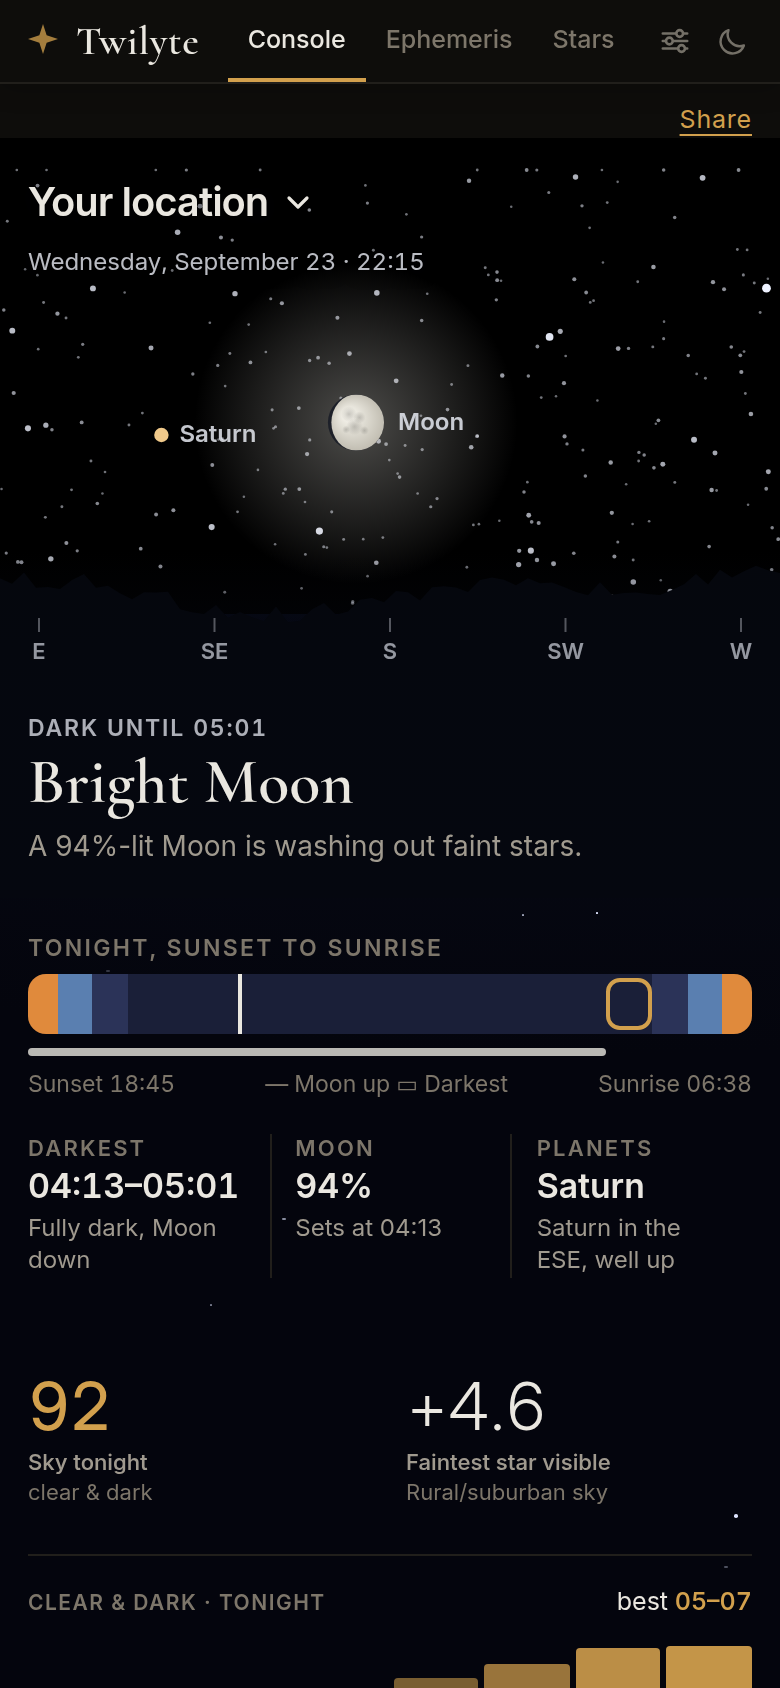
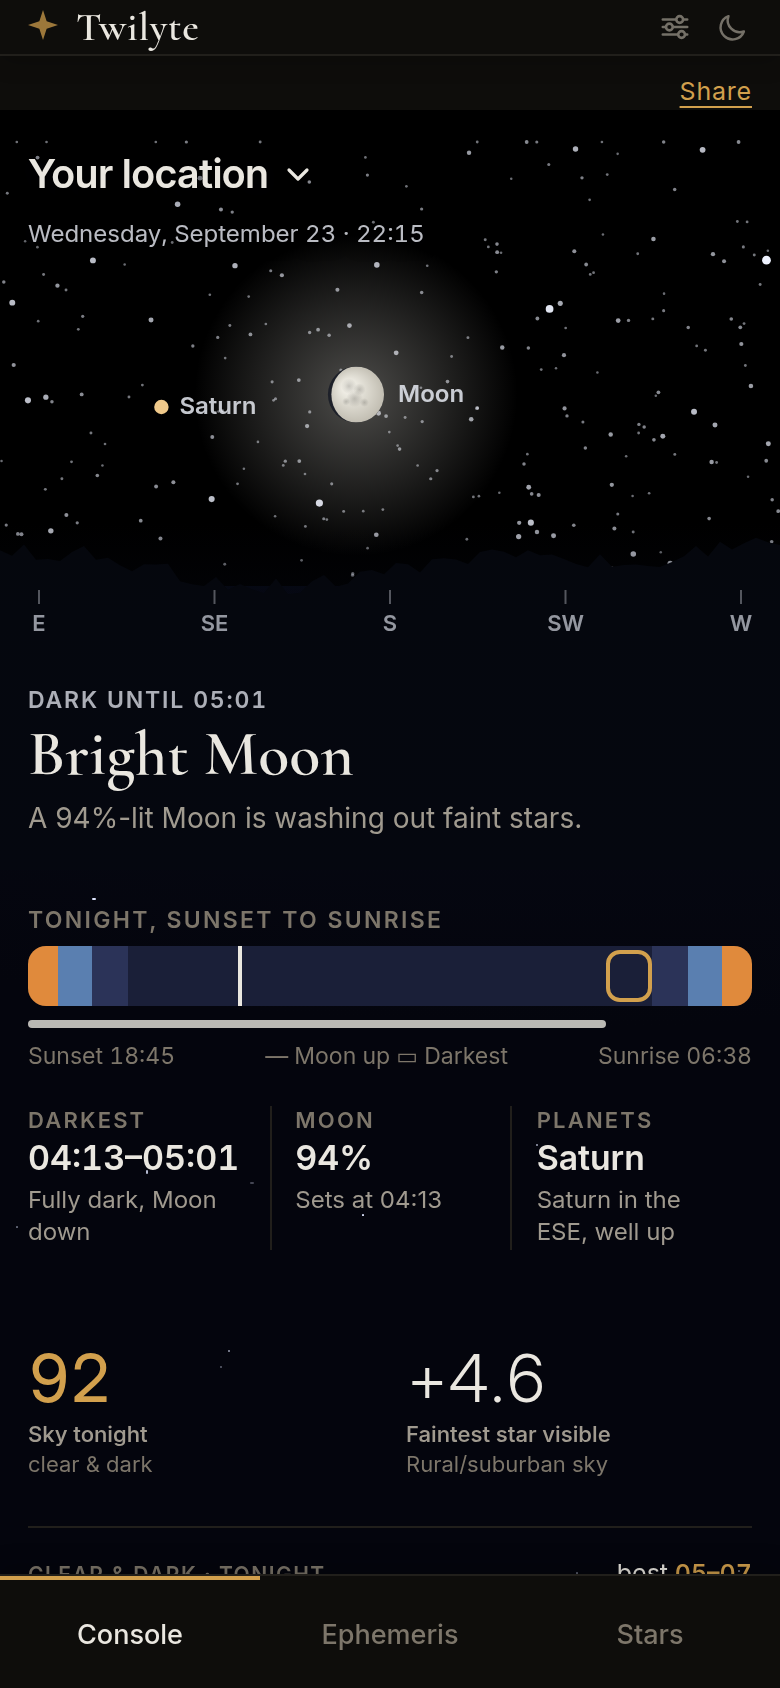
Move the tabs to a bar along the bottom on phones
On a phone the Console / Ephemeris / Stars tabs sat in the header at the top
of the screen, the hardest place for a thumb to reach, and they crowded it:
between 360 and 383 px the header overflowed, which is why the app hid its
own wordmark below 385 px.

At 780 px and narrower (the app's existing phone/tablet breakpoint) the tabs
are now a fixed bar along the bottom: three equal buttons, 56 px tall, the
active one marked with an accent line on top, the bar clear of the home
indicator via env(safe-area-inset-bottom) (the viewport is already
viewport-fit=cover). #root gets matching bottom padding so the footer is
never hidden behind the bar. Sky View's full-screen overlay (z-index 300)
still covers it.

The buttons now live in <nav class="tw-tabs" aria-label="Sections">, which is
display:contents on wide screens, so the desktop header is unchanged, and
the active tab carries aria-current="page" (it had no programmatic state
before). With the tabs gone from the phone header the wordmark fits at any
width, so the max-width:384px rule that hid it is removed.

Checked in Playwright at 360x740, 390x844 and 1280x800: no horizontal
overflow at any width, wordmark visible at 360, the bar at the bottom on the
phones and absent (tabs in the header) on desktop, aria-current follows a
switch to Stars, and the footer's last link ends above the bar. No page
errors; 210/210 tests pass; verify-build passes.

iPhone, Android phone and PWA narrow screenshots retaken (iPad and the wide
[…]

diff --git a/index.html b/index.html
@@ -2,7 +2,7 @@
 <html lang="en">
 <head>
 <meta charset="utf-8" />
-<meta http-equiv="Content-Security-Policy" content="default-src 'self'; script-src 'self' 'sha256-LtvvfGVmfcoHWp4+TD4Lt7CBdUP12N0xoz2a4TCIlgA=' 'sha256-2WFykE7wvy9rfb6MuxdEk17+inylzAieA3wTF6WO6oc=' 'sha256-5iQLZZarga65DX0f9Sd0iyRmfHgUzB8mc6W/19dA1m0=' 'sha256-tYEtE0kpLDDuqS/6ySsctSCJyRRL2qqbyqNi3qi8et4=' 'sha256-JAy4ooiqCu/2GUX/T0oycyxLZ4vrWZ1Xwxtepo5wmOg='; style-src 'self' 'unsafe-inline'; img-src 'self' data:; font-src 'self'; connect-src 'self' https://geocoding-api.open-meteo.com https://api.open-meteo.com https://twilight-counter.ken-b39.workers.dev; manifest-src 'self'; worker-src 'self'; base-uri 'self'; form-action 'self'; object-src 'none'; upgrade-insecure-requests" />
+<meta http-equiv="Content-Security-Policy" content="default-src 'self'; script-src 'self' 'sha256-LtvvfGVmfcoHWp4+TD4Lt7CBdUP12N0xoz2a4TCIlgA=' 'sha256-2WFykE7wvy9rfb6MuxdEk17+inylzAieA3wTF6WO6oc=' 'sha256-5iQLZZarga65DX0f9Sd0iyRmfHgUzB8mc6W/19dA1m0=' 'sha256-LIHm+RzdVFIS1AS4HNQ8Rvi7VSK7sO/q4Zj0YR1jL+A=' 'sha256-JAy4ooiqCu/2GUX/T0oycyxLZ4vrWZ1Xwxtepo5wmOg='; style-src 'self' 'unsafe-inline'; img-src 'self' data:; font-src 'self'; connect-src 'self' https://geocoding-api.open-meteo.com https://api.open-meteo.com https://twilight-counter.ken-b39.workers.dev; manifest-src 'self'; worker-src 'self'; base-uri 'self'; form-action 'self'; object-src 'none'; upgrade-insecure-requests" />
 <meta name="viewport" content="width=device-width, initial-scale=1, viewport-fit=cover" />
 <meta name="theme-color" content="#070a14" />
 <title>Twilyte — Live Sky Dashboard & Twilight Ephemeris</title>
@@ -93,12 +93,27 @@
     --shadow-2:0 2px 12px rgba(0,0,0,.22);
     --panel-top:rgba(255,255,255,.05);  /* hairline top highlight */
   }
-  /* Hide the wordmark on narrow screens so the tab bar never crowds.
-     384px (not 359px) because the header's natural width is 381px — a
-     360-383px viewport (this bracket covers real devices: 360px Android,
-     375px iPhone SE/6-8/X/11 Pro/12 mini) overflowed horizontally on every
-     tab otherwise. */
-  @media (max-width:384px){ .tw-brand-word{ display:none; } }
+  /* Tabs: in the header on wide screens, a bar along the bottom on phones
+     and small tablets, where the thumb is. On wide screens the <nav> is
+     display:contents, so the buttons sit in the header's flex row as they
+     always have. Moving them off the header also ended the 360-383px
+     overflow that used to hide the wordmark on narrow phones. The !important
+     rules override the buttons' inline top-tab styles. */
+  .tw-tabs{ display:contents; }
+  @media (max-width:780px){
+    .tw-tabs{
+      display:flex; position:fixed; left:0; right:0; bottom:0; z-index:100;
+      background:var(--bg); border-top:1px solid var(--line);
+      box-shadow:0 -2px 12px rgba(0,0,0,.28);
+      padding:0 env(safe-area-inset-right) env(safe-area-inset-bottom) env(safe-area-inset-left);
+    }
+    .tw-tab{
+      flex:1 1 0; min-height:56px; font-size:13.5px !important;
+      border-bottom:none !important; border-top:2px solid transparent !important;
+    }
+    .tw-tab[aria-current="page"]{ border-top-color:var(--accent) !important; }
+    #root{ padding-bottom:calc(58px + env(safe-area-inset-bottom)); }
+  }
   /* Free up room on small screens */
   @media (max-width:560px){ .tw-visitors{ display:none; } }
   /* Glassy "instrument panel" elevation: soft drop shadow + hairline top highlight */
@@ -1592,7 +1607,7 @@ const C = {
 // Bumped with sw.js's CACHE, so a Sensor details screenshot says which build
 // it came from. It sat at v56 for weeks while the app moved on, which made
 // every field report ambiguous.
-const BUILD = "v85";
+const BUILD = "v86";
 const PAGE_BG = "radial-gradient(1200px 760px at 75% -10%, #1b2440 0%, #0a0e1e 45%, #04050d 100%)";
 const PHASE_META = {
   day: {
@@ -6937,9 +6952,14 @@ function TwilightApp() {
         ),
         React.createElement("span", { className: "tw-brand-word" }, "Twilyte")
       ),
-      React.createElement("button", { style: tabStyle(activeTab === 'console'), onClick: () => switchTab('console') }, "Console"),
-      React.createElement("button", { style: tabStyle(activeTab === 'ephemeris'), onClick: () => switchTab('ephemeris') }, "Ephemeris"),
-      React.createElement("button", { style: tabStyle(activeTab === 'stars'), onClick: () => switchTab('stars') }, "Stars"),
+      React.createElement("nav", { className: "tw-tabs", "aria-label": "Sections" },
+        [["console", "Console"], ["ephemeris", "Ephemeris"], ["stars", "Stars"]].map(([t, label]) =>
+          React.createElement("button", {
+            key: t, className: "tw-tab", style: tabStyle(activeTab === t),
+            "aria-current": activeTab === t ? "page" : undefined,
+            onClick: () => switchTab(t)
+          }, label))
+      ),
       visitorCount !== null && React.createElement("span", {
         className: "tw-visitors",
         style: {

diff --git a/sw.js b/sw.js
@@ -1,4 +1,4 @@
-const CACHE = 'twilight-v85';
+const CACHE = 'twilight-v86';
 const ASSETS = [
   '/',
   '/index.html',

diff --git a/CLAUDE.md b/CLAUDE.md
@@ -100,8 +100,13 @@ Three tabs, one `index.html`, no build step:
   under the painting with coordinates, Use my location, Save, saved places
   and the city search (the old block of those below the painting is gone).
   `HorizonHero` takes them as `header` and `panel` props; `pickerOpen` is the
-  panel's state, and a failed first geolocation still opens it. Phase 2
-  still to do: tabs to the bottom, reference below the fold.
+  panel's state, and a failed first geolocation still opens it. **Tabs sit
+  in a bar along the bottom at ≤780 px** (2026-09-23): the same three buttons
+  inside `<nav class="tw-tabs">`, which is `display:contents` on wide screens
+  so they stay in the header there; `aria-current="page"` marks the active
+  one, and `#root` gets bottom padding so the footer clears the bar. That
+  also retired the ≤384 px rule that hid the wordmark (the tabs were what
+  overflowed the header). Phase 2 still to do: reference below the fold.
 - **Ephemeris: real time zones and the painted day (2026-09-22, #84).** The tab
   used to open on a hard-coded New York solstice (2026-06-21) with a hand-set
   "UTC-5 +DST", so anyone elsewhere — or anyone after a daylight-saving change —
@@ -682,9 +687,8 @@ that and is kept for its design detail):**
 the PWA's `screenshot-narrow.png` / `screenshot-wide.png`, which
 `store-assets/generate.js` now also writes (they had no generator before).
 The Console shots were retaken when the horizon view became the default
-(same day). The Android
-phone shots (360 px CSS) have no header wordmark: below 385 px the app hides
-it so the header can't overflow, so that is the real app, not a bug.
+(same day), and the phone shots again when the tabs moved to the bottom
+(iPad and the wide PWA shot are over 780 px, so unchanged).
 
 **Owner decisions made (don't re-ask):**
 - **iOS device family: Universal** (iPhone + iPad). iPad screenshots and
